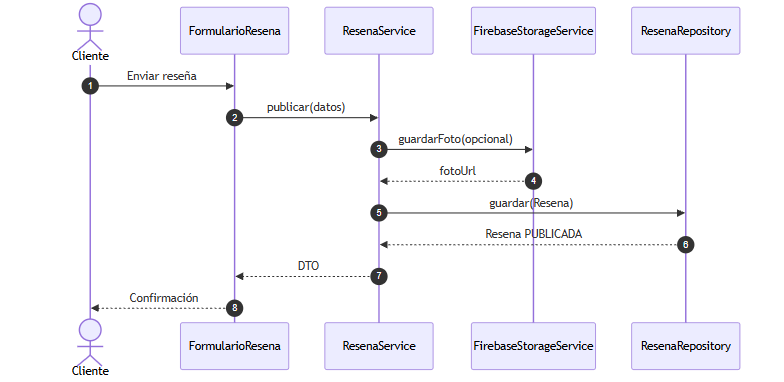
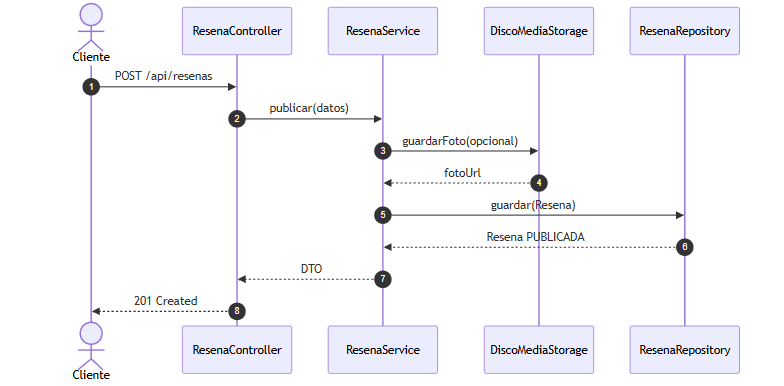
docs: actualizar diseno a Java 25 LTS y Spring Boot 4.1

diff --git a/docs/03-modelo-de-diseno.md b/docs/03-modelo-de-diseno.md
@@ -1,10 +1,10 @@
 # Modelo de Diseño del Sistema
 
-> **Resumen ejecutivo.** El modelo de análisis se transforma en un modelo físico aplicable a Java 17/21 + Spring Boot 3 y React + TypeScript para Mely Faciales. Se definen 4 paquetes, 5 subsistemas, 5 interfaces de aplicación, las clases del diseño y 8 realizaciones de caso de uso. El resultado son 20 diagramas referenciados desde `images/modelo-de-diseno/`.
+> **Resumen ejecutivo.** El modelo de análisis se transforma en un modelo físico aplicable a Java 25 LTS + Spring Boot 4.1 y React + TypeScript para Mely Faciales. Se definen 4 paquetes, 5 subsistemas, 5 interfaces de aplicación, las clases del diseño y 8 realizaciones de caso de uso. El resultado son 20 diagramas referenciados desde `images/modelo-de-diseno/`.
 
 | Campo | Valor |
 |---|---|
-| Versión | 1.1 |
+| Versión | 1.2 |
 | Estado | Aprobado para Sprint 0 |
 | Actualizado | 2026-11-25 |
 | Autor | Erin Nodarse |
@@ -101,56 +101,56 @@ Las clases del diseño especifican visibilidad, atributos, tipos y operaciones c
 
 - Clases: ![Clases CU-01](<images/modelo-de-diseno/clases-de-diseno/CU-01-clases-diseno.png>)
 - Colaboración: ![Colaboración CU-01](<images/modelo-de-diseno/colaboracion-diseno/CU-01-colaboracion-diseno.png>)
-- Mensajes: 1. GET · 2. listarActivos · 3. delegación al servicio · 4. findByActivoTrue · 5-7. entidades · 8-9. DTO · 10. 200 OK / 10a. Próximamente.
+- Mensajes: 1. GET /api/servicios · 2. listarActivos() · 3. findByActivoTrue() · 4. consulta JPA (PostgreSQL) · 5. entidades · 6. lista · 7. DTO · 8. 200 OK / 8a. Próximamente.
 
 ### CU-02 — Ver detalle de servicio
 Incluye `Publicacion` como fuente del micro-video o la imagen de portada; si no hay video, se devuelve `imagenUrl`.
 
 - Clases: ![Clases CU-02](<images/modelo-de-diseno/clases-de-diseno/CU-02-clases-diseno.png>)
 - Colaboración: ![Colaboración CU-02](<images/modelo-de-diseno/colaboracion-diseno/CU-02-colaboracion-diseno.png>)
-- Mensajes: 1. GET detalle · 2-3. obtenerDetalle · 4-5. repositorios · 6-7. entidades · 8. DTO con videoUrl / 8a. con imagenUrl · 9. 200 OK.
+- Mensajes: 1. GET /api/servicios/{id} · 2. obtenerDetalle(id) · 3. findById(id) · 4. findByServicio(id) · 5. Servicio · 6. Publicacion · 7. DTO con videoUrl · 8. 200 OK / 8a. imagenUrl.
 
 ### CU-03 — Publicar reseña
 `ResenaService` usa `MediaStorage` antes de persistir; la reseña nace con `estado=PUBLICADA`.
 
 - Clases: ![Clases CU-03](<images/modelo-de-diseno/clases-de-diseno/CU-03-clases-diseno.png>)
 - Colaboración: ![Colaboración CU-03](<images/modelo-de-diseno/colaboracion-diseno/CU-03-colaboracion-diseno.png>)
-- Mensajes: 1. POST · 2-3. publicar · 4-5. guardarFoto (opcional) · 6. nueva Resena · 7-8. save · 9-10. DTO · 11. 201 Created.
+- Mensajes: 1. POST /api/resenas · 2. publicar(datos) · 3. guardarFoto(opcional) · 4. fotoUrl · 5. guardar(Resena) · 6. Resena PUBLICADA · 7. DTO · 8. 201 Created.
 
 ### CU-04 — Consultar muro de reseñas
 Filtra por `EstadoResena.PUBLICADA`.
 
 - Clases: ![Clases CU-04](<images/modelo-de-diseno/clases-de-diseno/CU-04-clases-diseno.png>)
 - Colaboración: ![Colaboración CU-04](<images/modelo-de-diseno/colaboracion-diseno/CU-04-colaboracion-diseno.png>)
-- Mensajes: 1. GET filtro · 2-3. listarPublicadas · 4. findByEstado · 5-7. entidades y DTO · 8. 200 OK / 8a. estado vacío.
+- Mensajes: 1. GET /api/resenas · 2. listarPublicadas() · 3. findByEstado(PUBLICADA) · 4. entidades · 5. DTO · 6. 200 OK / 6a. estado vacío.
 
 ### CU-05 — Contactar por WhatsApp
 `WhatsAppLinkGenerator` construye el deep link con el número único de Mely y mensaje contextual según el servicio.
 
 - Clases: ![Clases CU-05](<images/modelo-de-diseno/clases-de-diseno/CU-05-clases-diseno.png>)
 - Colaboración: ![Colaboración CU-05](<images/modelo-de-diseno/colaboracion-diseno/CU-05-colaboracion-diseno.png>)
-- Mensajes: 1. GET link · 2-3. construir · 4. mensaje con +5355795510 · 5. https://wa.me/5355795510?text=... · 6. 200 OK · 7. apertura del chat.
+- Mensajes: 1. Pulsar CTA · 2. construir(servicio) · 3. https://wa.me/5355795510?text=... · 4. URL · 5. Abrir conversación.
 
 ### CU-06 — Eliminar reseña
 Requiere sesión ADMIN; el borrado se confirma antes de llamar al repositorio.
 
 - Clases: ![Clases CU-06](<images/modelo-de-diseno/clases-de-diseno/CU-06-clases-diseno.png>)
 - Colaboración: ![Colaboración CU-06](<images/modelo-de-diseno/colaboracion-diseno/CU-06-colaboracion-diseno.png>)
-- Mensajes: 1. credenciales · 2-3. autenticar · 4. DELETE · 5-6. eliminar · 7. deleteById · 8. confirmación · 9. 204 No Content.
+- Mensajes: 1. credenciales · 2. Sesion ADMIN · 3. Seleccionar reseña · 4. confirmarEliminacion() · 5. DELETE /api/resenas/{id} · 6. eliminar(id) · 7. deleteById(id) · 8. confirmación · 9. 204 No Content · 10. Muro actualizado / 10a. error al borrar.
 
 ### CU-07 — Iniciar sesión
 `AuthController` delega en `GestionIdentidad`; `AuthService` valida contra `Administradora`.
 
 - Clases: ![Clases CU-07](<images/modelo-de-diseno/clases-de-diseno/CU-07-clases-diseno.png>)
 - Colaboración: ![Colaboración CU-07](<images/modelo-de-diseno/colaboracion-diseno/CU-07-colaboracion-diseno.png>)
-- Mensajes: 1. POST /api/auth/login · 2-3. autenticar · 4. búsqueda · 5. entidad · 6. SesionDTO / 6a. 401 · 7. 200 OK.
+- Mensajes: 1. /admin · 2. Mostrar formulario · 3. usuario y clave · 4. POST /api/auth/login · 5. autenticar(usuario, clave) · 6. buscarPorUsuario() · 7. resultado · 8. Sesion ADMIN / 8a. 401 · 9. 200 OK · 10. Panel.
 
 ### CU-08 — Gestionar contenido del catálogo
 Permite cambiar texto y/o video sin volver a desplegar; el video se sube vía `MediaStorage`.
 
 - Clases: ![Clases CU-08](<images/modelo-de-diseno/clases-de-diseno/CU-08-clases-diseno.png>)
 - Colaboración: ![Colaboración CU-08](<images/modelo-de-diseno/colaboracion-diseno/CU-08-colaboracion-diseno.png>)
-- Mensajes: 1. PUT servicio · 2-3. actualizar · 4-5. guardarVideo (opcional) · 6-7. guardar · 8. ServicioDTO · 9. 200 OK.
+- Mensajes: 1. Editar servicio · 2. PUT /api/servicios/{id} · 3. actualizar(servicio) · 4. guardarVideo(opcional) · 5. videoUrl · 6. guardar(servicio) · 7. actualizado · 8. ServicioDTO · 9. 200 OK · 10. Catálogo actualizado / 10a. error al guardar.
 
 ## 9. Trazabilidad análisis → diseño → implementación prevista
 

diff --git a/CHANGELOG.md b/CHANGELOG.md
@@ -23,6 +23,7 @@ El formato sigue *Keep a Changelog* y la versión sigue *Semantic Versioning*.
 - Se eliminaron la segunda estilista, sus servicios y los filtros por estilista.
 - Se simplificó la interfaz a una sola identidad visual rosa/skincare.
 - Se renombró el repositorio a `Mely-Faciales` y se actualizaron los documentos 01, 02 y 03 a la versión 1.1.
+- Stack actualizado a Java 25 LTS + Spring Boot 4.1; eliminados Firebase y Firestore del modelo de diseño; nombres de controladores y mensajes alineados con los diagramas.
 
 ## [0.1.0] - 2026-11-25
 

diff --git a/README.md b/README.md
@@ -15,7 +15,7 @@ Documentación de definición de Mely Faciales completada en Sprint 0 (requisito
 - **Scrum Master / equipo de desarrollo:** Erin Nodarse.
 
 ## Stack previsto
-- Backend: Java 17/21 + Spring Boot 3 (API REST, Spring Security, Spring Data JPA).
+- Backend: Java 25 LTS + Spring Boot 4.1 (API REST, Spring Security, Spring Data JPA).
 - Frontend: React + TypeScript + Vite + Tailwind CSS (identidad visual única: rosa/skincare).
 - Persistencia: PostgreSQL.
 - Despliegue: por definir en un ADR posterior.
